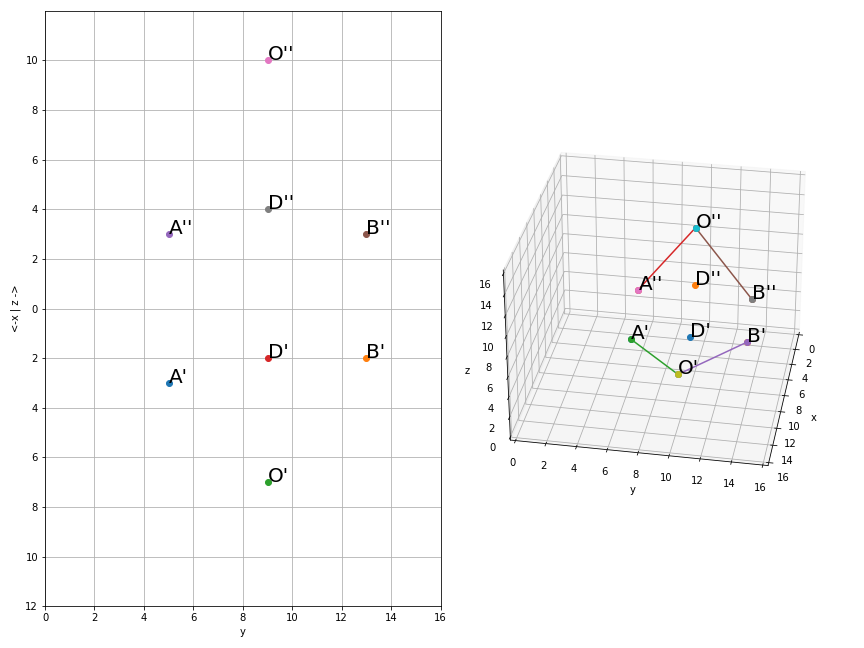
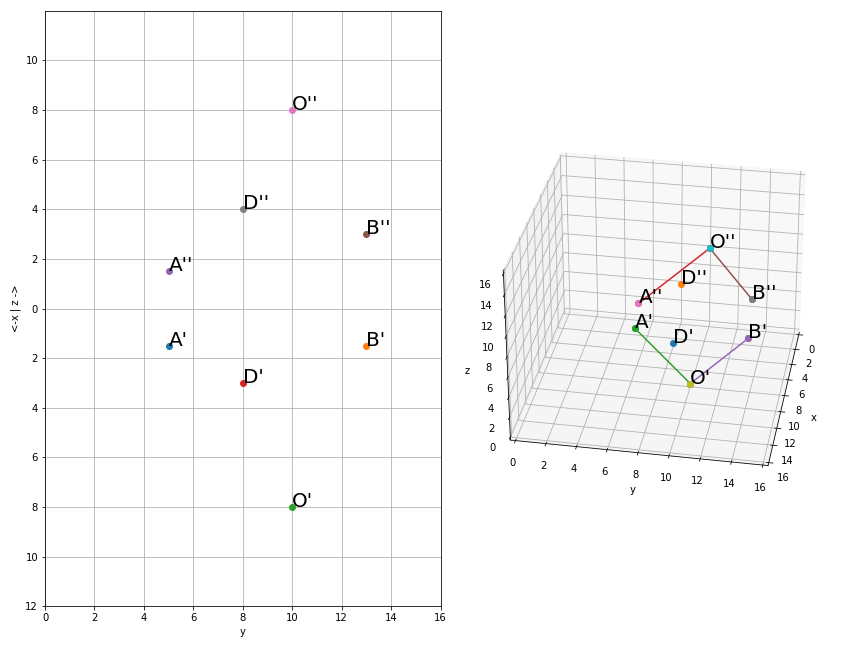
Daily upload - dynpy

diff --git a/dgeometry.py b/dgeometry.py
@@ -514,6 +514,7 @@ class Point(Entity):
 
     def distance(self,other):
         return self._geo_ref.distance(other._geo_ref)
+
     
     def __xor__(self,other):
         if isinstance(other,Point):
@@ -582,6 +583,8 @@ class Line(Entity):
         
     def perpendicular_line(self, p):
         return entity_convert(self._geo_ref.perpendicular_line(p._geo_ref))
+    def parallel_line(self, p):
+        return entity_convert(self._geo_ref.parallel_line(p._geo_ref))
 
     @property
     def direction(self):
@@ -644,7 +647,6 @@ class Plane(Entity):
     def _coding_points(self):
         return (self._geo_ref.p1,self._p2,self._p3,self._geo_ref.p1)
 
-    
     def projection(self, other):
         if isinstance(other,Point):
             projection = self._geo_ref.projection(other._geo_ref)
@@ -666,7 +668,9 @@ class Plane(Entity):
     def perpendicular_plane(self, p):
         return entity_convert(self._geo_ref.perpendicular_plane(p._geo_ref))
 
+    def parallel_plane(self, p):
 
+        return entity_convert(self._geo_ref.parallel_plane(p._geo_ref))
 class HorizontalPlane(Plane):
     _at_symbol=''
     def __init__(self,p1=None):
@@ -2373,93 +2377,81 @@ class PlanePerpendicularToPlaneIntersection(GeometricalCase):
 
         }
         return default_data_dict
-# class LineParallelToPlane(TwoPlanesIntersection):
+class LineParallelToPlane(TwoPlanesIntersection):
     
-#     point_A = [Point(x,y,z) for x in [4,4.5,5,5.5,6,6.5] for y in [2,2.5,3,3.5,4,4.5,5] for z in [1,1.5,2,2.5,3,3.5] ]
+    point_A = [Point(x,y,z) for x in [4,4.5,5,5.5,6,6.5] for y in [2,2.5,3,3.5,4,4.5,5] for z in [1,1.5,2,2.5,3,3.5] ]
 
-#     point_O = [Point(x,y,z) for x in range(7,11) for y in range(8,12) for z in range(8,12) ]
+    point_O = [Point(x,y,z) for x in range(7,11) for y in range(8,12) for z in range(8,12) ]
 
 
-#     point_B=[Point(x,y,z) for x in [1,1.5,2,2.5,3,3.5] for y in [13,13.5,14,14.5,15] for z in [1,1.5,2,2.5,3,3.5] ]
+    point_B=[Point(x,y,z) for x in [1,1.5,2,2.5,3,3.5] for y in [13,13.5,14,14.5,15] for z in [1,1.5,2,2.5,3,3.5] ]
 
-#     point_D=[Point(x,y,z) for x in [1,1.5,2,2.5,3,3.5] for y in [1,1.5,2,2.5,3,3.5] for z in range(8,12) ]
-#     point_E = [Point(x,y,z) for x in [7,7.5,8,8.5,9] for y in [7,7.5,8.5,9,9.5] for z in range(2,5) ]
+    point_D=[Point(x,y,z) for x in [1,1.5,2,2.5,3,3.5] for y in [1,1.5,2,2.5,3,3.5] for z in range(8,12) ]
+    point_E = [Point(x,y,z) for x in [7,7.5,8,8.5,9] for y in [7,7.5,8.5,9,9.5] for z in range(2,5) ]
 
-#     point_F = [Point(x,y,z) for x in  [1,1.5,2,2.5,3,3.5] for y in [10,10.5,11,11.5,12] for z in range(8,12) ]
+    point_F = [Point(x,y,z) for x in  [1,1.5,2,2.5,3,3.5] for y in [10,10.5,11,11.5,12] for z in range(8,12) ]
 
-#     def solution(self):
-# #         self._line=Line(self._point_N1,self._point_N2)
-#         current_obj=copy.deepcopy(self)
+    def solution(self):
+#         self._line=Line(self._point_N1,self._point_N2)
+        current_obj=copy.deepcopy(self)
         
-#         A=current_obj._point_A
-#         B=current_obj._point_B
-#         O=current_obj._point_O
-#         D=current_obj._point_D
-#         E=current_obj._point_E
-#         F=current_obj._point_F
+        A=current_obj._point_A
+        B=current_obj._point_B
+        O=current_obj._point_O
+        D=current_obj._point_D
+        E=current_obj._point_E
+        F=current_obj._point_F
         
-#         current_set=DrawingSet(*current_obj._solution_step[-1])
+        current_set=DrawingSet(*current_obj._solution_step[-1])
 
-#         base_plane=Plane(A,B,O)('base')
-#         line_a=Line(A,O)('a')
-#         line_b=Line(B,O)('b')
-#         line_d=Line(D,E)('d')
-#         line_f=Line(F,normal_vector(D-E))('f')
-#         line_q=line_f.intersection(base_plane)[0]('q')
-# #         point_G=line_f_on_AOB.intersection(line_a)[0]
-# #         point_H=line_f_on_AOB.intersection(line_b)[0]
-# # #         intersection_line=base_plane.intersection(cutting_plane)[0]('k')
-# #         P=base_plane.intersection(line_d)[0]('P')
-# #         Q=base_plane.intersection(line_f)[0]('Q')
-# #         intersection_line=Line(P,Q)('k')
-
+        base_plane=Plane(A,B,O)('base')
+        line_a=Line(A,O)('a')
+        line_b=Line(B,O)('b')
+        line_d=Line(D,E)('d')
+        line_f=line_d.parallel_line(F)('f')
+        edge_plane=Plane(line_f.p1,line_f.p2,line_f.p1@VPP)
+        line_q=edge_plane.intersection(base_plane)[0]('q')
+#         point_G=line_f_on_AOB.intersection(line_a)[0]
+#         point_H=line_f_on_AOB.intersection(line_b)[0]
+# #         intersection_line=base_plane.intersection(cutting_plane)[0]('k')
+#         P=base_plane.intersection(line_d)[0]('P')
+#         Q=base_plane.intersection(line_f)[0]('Q')
+#         intersection_line=Line(P,Q)('k')
         
-#         elems=[line_a,line_b,line_d,line_f,line_q]
-
         
-#         projections=[line_d@HPP,line_f@HPP,line_d@VPP,line_f@VPP,line_a@HPP,line_b@HPP,line_a@VPP,line_b@VPP,line_q@VPP,line_q@HPP]
-#         current_set+=[*elems,*projections]
-
-#         current_obj._solution_step.append(current_set)
-
-#         current_obj._assumptions=DrawingSet(*elems,*projections)
-
-#         return current_obj
-
-#     def get_default_data(self):
-
-#         point_A = self.__class__.point_A
-        
-#         point_O = self.__class__.point_O 
-        
-#         point_B=self.__class__.point_B
-        
-#         point_D=self.__class__.point_D
-#         point_E = self.__class__.point_E
-#         point_F = self.__class__.point_F
-        
-#         default_data_dict = {
-#             Symbol('A'): point_A,
-#             Symbol('B'): point_B,
-#             Symbol('O'): point_O,
-
-#             Symbol('D'): point_D,
-#             Symbol('E'): point_E,
-#             Symbol('F'): point_F,
-#         }
-#         return default_data_dict
-
-#     def get_random_parameters(self):
-
-#         parameters_dict=super().get_random_parameters()
-
-
-
-#         point_A=parameters_dict[Symbol('A')]
-#         point_B=parameters_dict[Symbol('B')] 
+        elems=[line_a,line_b,line_d,line_f,line_q]
 
         
-#         parameters_dict[Symbol('O')]=(point_A+point_B)*0.5+Point(0,0,5)
+        projections=[line_d@HPP,line_f@HPP,line_d@VPP,line_f@VPP,line_a@HPP,line_b@HPP,line_a@VPP,line_b@VPP,line_q@VPP,line_q@HPP]
+        current_set+=[*elems,*projections]
 
-#         return parameters_dict
-# LineParallelToPlane().from_random_data().solution()
+        current_obj._solution_step.append(current_set)
+
+        current_obj._assumptions=DrawingSet(*elems,*projections)
+
+        return current_obj
+
+    def get_default_data(self):
+
+        point_A = self.__class__.point_A
+        
+        point_O = self.__class__.point_O 
+        
+        point_B=self.__class__.point_B
+        
+        point_D=self.__class__.point_D
+        point_E = self.__class__.point_E
+        point_F = self.__class__.point_F
+        
+        default_data_dict = {
+            Symbol('A'): point_A,
+            Symbol('B'): point_B,
+            Symbol('O'): point_O,
+
+            Symbol('D'): point_D,
+            Symbol('E'): point_E,
+            Symbol('F'): point_F,
+        }
+        return default_data_dict
+
+
